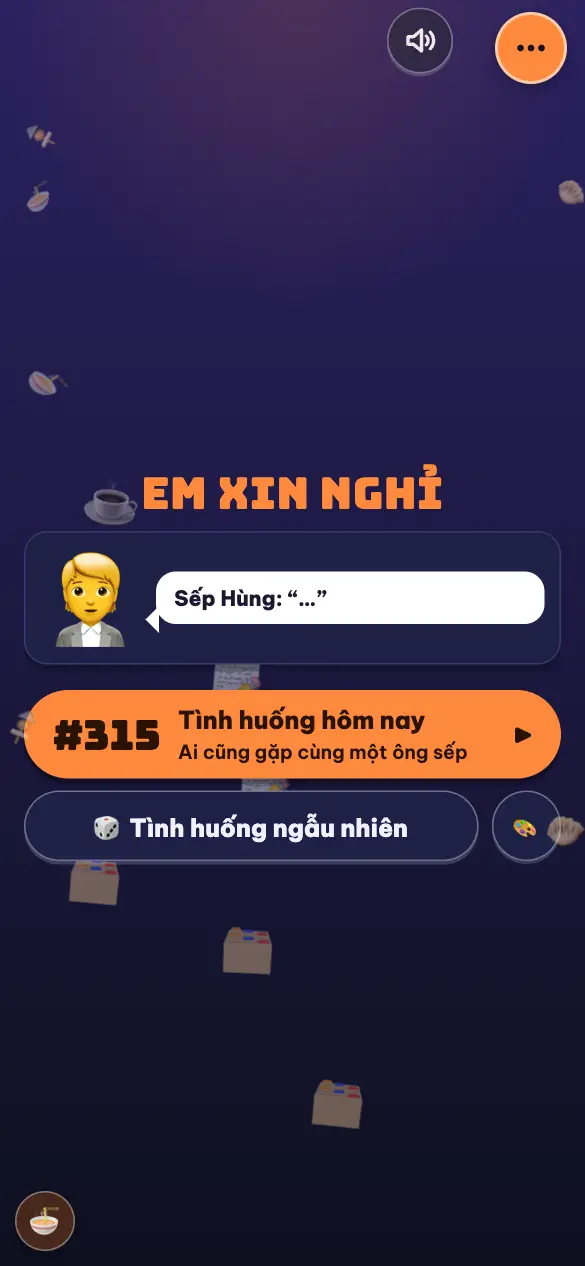
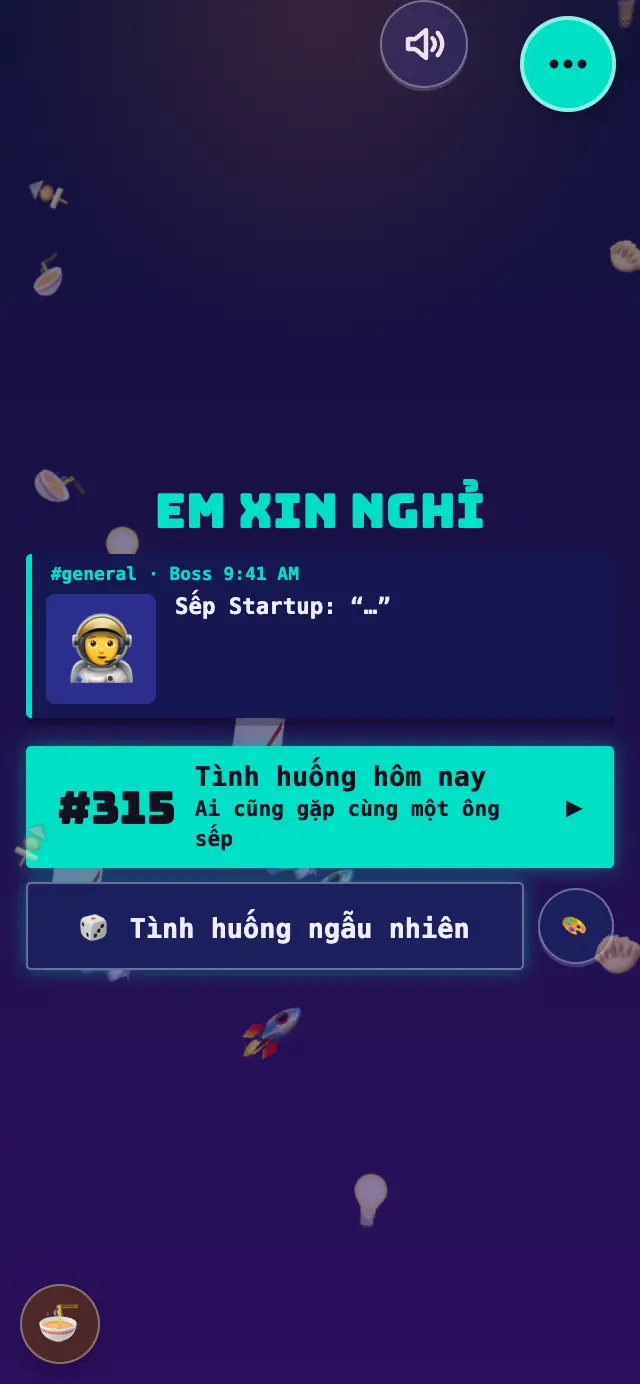
Landing: ảnh hero skin Night Pass thật, một máy cho điện thoại, menu ☰ từ 340px (EN/theme vào menu ở 320px); bài đo bản đầy đủ đạt

diff --git a/scripts/cozygame/check-landing.js b/scripts/cozygame/check-landing.js
@@ -139,7 +139,7 @@ const SIZES = quick ? [[360, 640], [390, 844], [1440, 900]] : [[320, 568], [360,
       await pg.evaluateOnNewDocument(() => { Object.defineProperty(window, "localStorage", { get() { throw new Error("blocked"); } }); });
       await pg.goto(B + PAGES.vi, { waitUntil: "load" }); note((await pg.$eval("#heroCta", e => e.textContent.trim())) === "Chơi ngay" && !errs.length, "chơi-tiếp storage chặn", "phải giữ 'Chơi ngay', không lỗi: " + errs[0]); await pg.close(); }
     /* bố cục: thẻ lối vào bằng nhau + không xuống dòng, thẻ giá đều + không cắt chữ, không phần tử nào cuộn ngang/bị cắt, hero liền mạch dưới thanh trên */
-    for (const l of ["vi", "en"]) for (const th of ["light", "dark"]) for (const sz of [[320, 568], [360, 640], [390, 844], [430, 932], [768, 1024], [1024, 768], [1440, 900]]) {
+    for (const l of ["vi", "en"]) for (const th of ["light", "dark"]) for (const sz of [[320, 568], [360, 640], [390, 844], [430, 932], [768, 1024], [900, 700], [960, 700], [1024, 768], [1440, 900]]) {
       const pg = await br.newPage(); await pg.setViewport({ width: sz[0], height: sz[1] });
       await pg.evaluateOnNewDocument(t => { try { localStorage.setItem("theme", t); } catch (e) {} }, th);
       await pg.goto(B + PAGES[l], { waitUntil: "load" }); await wait(250);
@@ -185,7 +185,7 @@ const SIZES = quick ? [[360, 640], [390, 844], [1440, 900]] : [[320, 568], [360,
       const pg = await br.newPage(); await pg.setViewport({ width: sz[0], height: sz[1] }); const errs = []; pg.on("pageerror", e => errs.push(String(e)));
       await pg.evaluateOnNewDocument(t => { try { localStorage.clear(); localStorage.setItem("theme", t); } catch (e) {} }, th);
       await pg.goto(B + PAGES[l], { waitUntil: "load" }); await wait(250);
-      const tag = "chân-trang " + l + " " + sz.join("x") + " " + th, narrow = sz[0] < 900;
+      const tag = "chân-trang " + l + " " + sz.join("x") + " " + th, narrow = sz[0] < 1000;
       await pg.evaluate(() => document.querySelector("footer.foot").scrollIntoView({ behavior: "instant", block: "end" })); await wait(150);
       const r = await pg.evaluate(() => { const f = document.querySelector("footer.foot"), b = f.querySelector(".mbtn"), nv = document.getElementById("flinks"), bb = b && b.getBoundingClientRect();
         const links = [...nv.querySelectorAll("a")].map(a => a.getAttribute("href")), ah = [...nv.querySelectorAll("a")].filter(a => a.offsetParent).map(a => a.getBoundingClientRect().height);
@@ -202,9 +202,9 @@ const SIZES = quick ? [[360, 640], [390, 844], [1440, 900]] : [[320, 568], [360,
         await pg.keyboard.press("Escape"); await wait(100); note(await pg.evaluate(() => document.getElementById("flinks").offsetParent === null), tag, "Esc không đóng menu");
         await pg.focus("footer .mbtn"); await pg.keyboard.press("Enter"); await wait(100); note(await pg.evaluate(() => document.getElementById("flinks").offsetParent !== null), tag, "Enter không mở menu");
         await pg.mouse.click(5, 5); await wait(100); note(await pg.evaluate(() => document.getElementById("flinks").offsetParent === null), tag, "bấm ngoài không đóng menu");
-        if (sz[0] >= 400) { await pg.evaluate(() => scrollTo({ top: 0, behavior: "instant" })); await wait(100); const hb = await pg.$(".top .mbtn"); const bx = hb && await hb.boundingBox();
-          note(!!bx && bx.width >= 44 && bx.height >= 44, tag, "thiếu nút menu header >= 44px"); if (hb) { await hb.click(); await wait(150); const h = await pg.evaluate(() => { const n = document.getElementById("hlinks"), q = n.getBoundingClientRect(), c = document.querySelector(".top .btn").getBoundingClientRect(); return { vis: n.offsetParent !== null, in: q.right <= innerWidth && q.left >= 0, cta: c.width >= 80 && c.height >= 44, n: n.querySelectorAll("a").length }; });
-            note(h.vis && h.in && h.cta && h.n === 5, tag, "menu header sai " + JSON.stringify(h)); await pg.keyboard.press("Escape"); } }
+        if (sz[0] >= 320) { await pg.evaluate(() => scrollTo({ top: 0, behavior: "instant" })); await wait(100); const hb = await pg.$(".top .mbtn"); const bx = hb && await hb.boundingBox();
+          note(!!bx && bx.width >= 44 && bx.height >= 44, tag, "thiếu nút menu header >= 44px"); if (hb) { await hb.click(); await wait(150); const h = await pg.evaluate(SZ0 => { const n = document.getElementById("hlinks"), q = n.getBoundingClientRect(), c = document.querySelector(".top .btn").getBoundingClientRect(); return { vis: n.offsetParent !== null, in: q.right <= innerWidth && q.left >= 0, cta: c.width >= 80 && c.height >= 44, n: n.querySelectorAll("a:not(.xtra)").length, x: SZ0 < 340 ? [...n.querySelectorAll(".xtra")].every(e => e.getBoundingClientRect().height >= 44) && !document.querySelector(".top .tools>.lang").offsetParent : true }; }, sz[0]);
+            note(h.vis && h.in && h.cta && h.x && h.n === 5, tag, "menu header sai " + JSON.stringify(h)); await pg.keyboard.press("Escape"); } }
       } else if (sz[0] >= 1000) note(await pg.evaluate(() => document.getElementById("hlinks").offsetParent !== null), tag, "liên kết neo header phải hiện");
       note(!errs.length, tag, "lỗi: " + errs[0]); await pg.close(); }
     /* mục phụ huynh + ảnh chụp thật: có id trong menu neo, ảnh tải được có width/height + alt, CTA/chính sách đúng, không CLS */
@@ -275,7 +275,7 @@ const SIZES = quick ? [[360, 640], [390, 844], [1440, 900]] : [[320, 568], [360,
       /* hero một màn hình ở 360x640 */
       if (w === 360 && h === 640) {
         const hh = await pg.evaluate(() => { const g = s => document.querySelector(s).getBoundingClientRect(); const hero = g(".hero"); return { top: hero.top, bottom: hero.bottom, cta: g("#heroCta").bottom, badges: g(".badges").bottom, g2: g(".cta .night").bottom, ih: innerHeight }; });
-        note(hh.bottom <= hh.ih + 1, tag, "hero cao quá một màn hình (bottom " + Math.round(hh.bottom) + " > " + hh.ih + ")");
+        note(Math.max(hh.cta, hh.g2) <= hh.ih && hh.badges <= hh.ih, tag, "CTA/thẻ lối vào/huy hiệu ra ngoài màn đầu (" + Math.round(hh.cta) + "/" + Math.round(hh.g2) + "/" + Math.round(hh.badges) + " > " + hh.ih + "); điện thoại minh hoạ được phép ló xuống dưới");
         note(hh.cta <= hh.ih && hh.g2 <= hh.ih && hh.badges <= hh.ih, tag, "CTA/huy hiệu nằm ngoài màn hình đầu");
       }
       if (shotDir && ((w === 390 && h === 844) || (w === 1440 && h === 900))) { fs.mkdirSync(shotDir, { recursive: true }); await pg.screenshot({ path: path.join(shotDir, `landing-${l}-${w}-${th}-top.png`) }); await pg.screenshot({ path: path.join(shotDir, `landing-${l}-${w}-${th}-full.png`), fullPage: true }); }

diff --git a/landing/index.html b/landing/index.html
@@ -42,7 +42,7 @@ try{if(!/[?&]landing=1(&|$)/.test(location.search)&&(matchMedia("(display-mode: 
 <header class="top">
  <div class="wrap bar">
   <a class="brand" href="/" aria-label="Play Hub"><img src="/lp/img/logo.svg" width="34" height="34" alt=""><span>Play Hub</span></a>
-  <nav class="links" id="hlinks" aria-label="Chính"><a href="#game">Game</a><a href="#tinhnang">Tính năng</a><a href="#phuhuynh">Phụ huynh</a><a href="#nightpass">Night Pass</a><a href="#hoi">Câu hỏi</a></nav>
+  <nav class="links" id="hlinks" aria-label="Chính"><a href="#game">Game</a><a href="#tinhnang">Tính năng</a><a href="#phuhuynh">Phụ huynh</a><a href="#nightpass">Night Pass</a><a href="#hoi">Câu hỏi</a><a class="xtra" href="/en/" hreflang="en" lang="en" data-set-lang="en">English</a><button class="xtra" type="button" data-theme-toggle>Giao diện sáng/tối</button></nav>
   <div class="tools">
    <a class="lang" href="/en/" hreflang="en" lang="en" data-set-lang="en" aria-label="English">EN</a>
    <button class="ico" id="themeBtn" type="button" aria-label="Đổi giao diện sáng/tối"><svg viewBox="0 0 24 24" fill="none" stroke="currentColor" stroke-width="2.2" stroke-linecap="round" stroke-linejoin="round" aria-hidden="true"><path d="M20 14.5A8 8 0 1 1 9.5 4a6.5 6.5 0 0 0 10.5 10.5z"/></svg></button>
@@ -61,7 +61,7 @@ try{if(!/[?&]landing=1(&|$)/.test(location.search)&&(matchMedia("(display-mode: 
   </div>
   <ul class="badges"><li><svg viewBox="0 0 24 24" width="18" height="18" fill="none" stroke="currentColor" stroke-width="3" stroke-linecap="round" stroke-linejoin="round" aria-hidden="true"><path d="M5 12.5l4.5 4.5L19 7.5"/></svg>Không quảng cáo</li><li><svg viewBox="0 0 24 24" width="18" height="18" fill="none" stroke="currentColor" stroke-width="3" stroke-linecap="round" stroke-linejoin="round" aria-hidden="true"><path d="M5 12.5l4.5 4.5L19 7.5"/></svg>Không theo dõi cá nhân</li><li><svg viewBox="0 0 24 24" width="18" height="18" fill="none" stroke="currentColor" stroke-width="3" stroke-linecap="round" stroke-linejoin="round" aria-hidden="true"><path d="M5 12.5l4.5 4.5L19 7.5"/></svg>Chạy offline</li><li><svg viewBox="0 0 24 24" width="18" height="18" fill="none" stroke="currentColor" stroke-width="3" stroke-linecap="round" stroke-linejoin="round" aria-hidden="true"><path d="M5 12.5l4.5 4.5L19 7.5"/></svg>Miễn phí để chơi</li><li><svg viewBox="0 0 24 24" width="18" height="18" fill="none" stroke="currentColor" stroke-width="3" stroke-linecap="round" stroke-linejoin="round" aria-hidden="true"><path d="M5 12.5l4.5 4.5L19 7.5"/></svg>Khoá trẻ em &amp; hẹn giờ</li></ul>
   <div class="mosaic" aria-hidden="true"><span aria-hidden="true">🐦</span><span aria-hidden="true">🐊</span><span aria-hidden="true">🔤</span><span aria-hidden="true">💃</span><span aria-hidden="true">⏰</span><span aria-hidden="true">💸</span><span aria-hidden="true">🛒</span><span aria-hidden="true">🐝</span></div>
-  <div class="phones"><div class="pfx"><div class="dev l"><div class="scr"><span class="isl"></span><div class="sb"><b>9:41</b><i class="sg"></i><i class="bt"></i></div><img src="/lp/img/shots/hero-nghi.webp" width="585" height="1266" alt="Màn Em Xin Nghỉ trong Night Play" loading="lazy" decoding="async"></div></div><div class="dev c"><div class="scr"><span class="isl"></span><div class="sb"><b>9:41</b><i class="sg"></i><i class="bt"></i></div><img src="/lp/img/shots/hero-cafe.webp" width="585" height="1266" alt="Màn Xe Cà Phê Của Tôi trong Night Play" fetchpriority="high" decoding="async"></div></div><div class="dev r"><div class="scr"><span class="isl"></span><div class="sb"><b>9:41</b><i class="sg"></i><i class="bt"></i></div><img src="/lp/img/shots/hero-wings.webp" width="585" height="1266" alt="Màn Cánh Nhỏ Phiêu Lưu trong Night Play" loading="lazy" decoding="async"></div></div></div><span class="fchip c1">👑 Night Pass</span><span class="fchip c2">Không quảng cáo</span><span class="fchip c3">Chạy offline</span></div>
+  <div class="phones"><div class="pfx"><div class="dev l"><div class="scr"><span class="isl"></span><div class="sb"><b>9:41</b><i class="sg"></i><i class="bt"></i></div><img src="/lp/img/shots/hero-nghi.webp" width="585" height="1266" alt="Sếp Ơi Em Xin Nghỉ với skin Night Pass startup" loading="lazy" decoding="async"></div></div><div class="dev c"><div class="scr"><span class="isl"></span><div class="sb"><b>9:41</b><i class="sg"></i><i class="bt"></i></div><img src="/lp/img/shots/hero-cafe.webp" width="585" height="1266" alt="Gà Mẹ Bắn Trứng với skin Night Pass neon tím" fetchpriority="high" decoding="async"></div></div><div class="dev r"><div class="scr"><span class="isl"></span><div class="sb"><b>9:41</b><i class="sg"></i><i class="bt"></i></div><img src="/lp/img/shots/hero-wings.webp" width="585" height="1266" alt="Mất Tình Không với skin Night Pass bầu trời đêm" loading="lazy" decoding="async"></div></div></div><span class="fchip c1">👑 Night Pass</span><span class="fchip c2">Không quảng cáo</span><span class="fchip c3">Chạy offline</span></div>
  </div>
 </section>
 

diff --git a/landing/en/index.html b/landing/en/index.html
@@ -42,7 +42,7 @@ try{if(!/[?&]landing=1(&|$)/.test(location.search)&&(matchMedia("(display-mode: 
 <header class="top">
  <div class="wrap bar">
   <a class="brand" href="/en/" aria-label="Play Hub"><img src="/lp/img/logo.svg" width="34" height="34" alt=""><span>Play Hub</span></a>
-  <nav class="links" id="hlinks" aria-label="Main"><a href="#game">Games</a><a href="#tinhnang">Features</a><a href="#phuhuynh">Parents</a><a href="#nightpass">Night Pass</a><a href="#hoi">FAQ</a></nav>
+  <nav class="links" id="hlinks" aria-label="Main"><a href="#game">Games</a><a href="#tinhnang">Features</a><a href="#phuhuynh">Parents</a><a href="#nightpass">Night Pass</a><a href="#hoi">FAQ</a><a class="xtra" href="/" hreflang="vi" lang="vi" data-set-lang="vi">Tiếng Việt</a><button class="xtra" type="button" data-theme-toggle>Light / Dark</button></nav>
   <div class="tools">
    <a class="lang" href="/" hreflang="vi" lang="vi" data-set-lang="vi" aria-label="Tiếng Việt">VI</a>
    <button class="ico" id="themeBtn" type="button" aria-label="Toggle light/dark theme"><svg viewBox="0 0 24 24" fill="none" stroke="currentColor" stroke-width="2.2" stroke-linecap="round" stroke-linejoin="round" aria-hidden="true"><path d="M20 14.5A8 8 0 1 1 9.5 4a6.5 6.5 0 0 0 10.5 10.5z"/></svg></button>
@@ -61,7 +61,7 @@ try{if(!/[?&]landing=1(&|$)/.test(location.search)&&(matchMedia("(display-mode: 
   </div>
   <ul class="badges"><li><svg viewBox="0 0 24 24" width="18" height="18" fill="none" stroke="currentColor" stroke-width="3" stroke-linecap="round" stroke-linejoin="round" aria-hidden="true"><path d="M5 12.5l4.5 4.5L19 7.5"/></svg>No ads</li><li><svg viewBox="0 0 24 24" width="18" height="18" fill="none" stroke="currentColor" stroke-width="3" stroke-linecap="round" stroke-linejoin="round" aria-hidden="true"><path d="M5 12.5l4.5 4.5L19 7.5"/></svg>No personal tracking</li><li><svg viewBox="0 0 24 24" width="18" height="18" fill="none" stroke="currentColor" stroke-width="3" stroke-linecap="round" stroke-linejoin="round" aria-hidden="true"><path d="M5 12.5l4.5 4.5L19 7.5"/></svg>Works offline</li><li><svg viewBox="0 0 24 24" width="18" height="18" fill="none" stroke="currentColor" stroke-width="3" stroke-linecap="round" stroke-linejoin="round" aria-hidden="true"><path d="M5 12.5l4.5 4.5L19 7.5"/></svg>Free to play</li><li><svg viewBox="0 0 24 24" width="18" height="18" fill="none" stroke="currentColor" stroke-width="3" stroke-linecap="round" stroke-linejoin="round" aria-hidden="true"><path d="M5 12.5l4.5 4.5L19 7.5"/></svg>Child lock &amp; time limit</li></ul>
   <div class="mosaic" aria-hidden="true"><span aria-hidden="true">🐦</span><span aria-hidden="true">🐊</span><span aria-hidden="true">🔤</span><span aria-hidden="true">💃</span><span aria-hidden="true">⏰</span><span aria-hidden="true">💸</span><span aria-hidden="true">🛒</span><span aria-hidden="true">🐝</span></div>
-  <div class="phones"><div class="pfx"><div class="dev l"><div class="scr"><span class="isl"></span><div class="sb"><b>9:41</b><i class="sg"></i><i class="bt"></i></div><img src="/lp/img/shots/hero-nghi.webp" width="585" height="1266" alt="The Boss, I Need a Day Off screen in Night Play" loading="lazy" decoding="async"></div></div><div class="dev c"><div class="scr"><span class="isl"></span><div class="sb"><b>9:41</b><i class="sg"></i><i class="bt"></i></div><img src="/lp/img/shots/hero-cafe.webp" width="585" height="1266" alt="The My Coffee Cart screen in Night Play" fetchpriority="high" decoding="async"></div></div><div class="dev r"><div class="scr"><span class="isl"></span><div class="sb"><b>9:41</b><i class="sg"></i><i class="bt"></i></div><img src="/lp/img/shots/hero-wings.webp" width="585" height="1266" alt="The Little Wings screen in Night Play" loading="lazy" decoding="async"></div></div></div><span class="fchip c1">👑 Night Pass</span><span class="fchip c2">No ads</span><span class="fchip c3">Works offline</span></div>
+  <div class="phones"><div class="pfx"><div class="dev l"><div class="scr"><span class="isl"></span><div class="sb"><b>9:41</b><i class="sg"></i><i class="bt"></i></div><img src="/lp/img/shots/hero-nghi.webp" width="585" height="1266" alt="Boss, I Need a Day Off with the startup Night Pass skin" loading="lazy" decoding="async"></div></div><div class="dev c"><div class="scr"><span class="isl"></span><div class="sb"><b>9:41</b><i class="sg"></i><i class="bt"></i></div><img src="/lp/img/shots/hero-cafe.webp" width="585" height="1266" alt="Mama Hen's Egg Pop with the purple neon Night Pass skin" fetchpriority="high" decoding="async"></div></div><div class="dev r"><div class="scr"><span class="isl"></span><div class="sb"><b>9:41</b><i class="sg"></i><i class="bt"></i></div><img src="/lp/img/shots/hero-wings.webp" width="585" height="1266" alt="Love Lost with the night-sky Night Pass skin" loading="lazy" decoding="async"></div></div></div><span class="fchip c1">👑 Night Pass</span><span class="fchip c2">No ads</span><span class="fchip c3">Works offline</span></div>
  </div>
 </section>
 

diff --git a/scripts/cozygame/shots-landing.js b/scripts/cozygame/shots-landing.js
@@ -1,13 +1,14 @@
 /* Chụp ảnh màn hình THẬT cho landing (mockup điện thoại ở hero + mục phụ huynh) -> landing/lp/img/shots/*.webp (mỗi ảnh <= 45KB).
    Chạy lại: NODE_PATH=<thư mục puppeteer-core> node scripts/cozygame/shots-landing.js */
-const { spawn } = require("child_process"), fs = require("fs"), path = require("path"), puppeteer = require("puppeteer-core");
+const { spawn, execSync } = require("child_process"), fs = require("fs"), path = require("path"), puppeteer = require("puppeteer-core");
 const root = path.join(__dirname, "..", ".."), out = path.join(root, "landing", "lp", "img", "shots"), wait = ms => new Promise(r => setTimeout(r, ms));
 const MAX = 45 * 1024;
 const today = () => new Date().toLocaleDateString("sv");
 const SHOTS = [
-  { f: "hero-cafe", url: "cozyplay/games/xe-ca-phe/index.html" },
-  { f: "hero-nghi", url: "cozyplay/games/xin-nghi/index.html" },
-  { f: "hero-wings", url: "cozyplay/games/cozy-wings/index.html" },
+  /* 3 máy hero: skin Night Pass THẬT (áp bằng PF.skinSel như check-skins.js), tím-đêm-vàng, viewport 320x692 để chữ to hơn khi thu nhỏ */
+  { f: "hero-cafe", url: "cozyplay/games/ga-me-ban-trung/index.html", skin: ["ga-me-ban-trung", "neon"], vp: [320, 692, 2] },
+  { f: "hero-nghi", url: "cozyplay/games/xin-nghi/index.html", skin: ["xin-nghi", "startup"], vp: [320, 692, 2] },
+  { f: "hero-wings", url: "cozyplay/games/mat-tinh-khong/index.html", skin: ["mat-tinh-khong", "sky"], vp: [320, 692, 2] },
   { f: "parent-settings", url: "popplay/index.html", ls: { prefs: JSON.stringify({ limit: 30, off: ["be-noi-dung-khong"] }), usage: JSON.stringify({ d: today(), s: 600 }) }, js: "renderPrefs();document.getElementById('gate').classList.add('on')" },
   { f: "parent-timeup", url: "popplay/index.html", ls: { prefs: JSON.stringify({ limit: 15, off: [] }), usage: JSON.stringify({ d: today(), s: 900 }) } },
 ];
@@ -17,9 +18,13 @@ const SHOTS = [
   const srv = spawn("python3", ["-m", "http.server", String(PORT), "--bind", "127.0.0.1"], { cwd: root, stdio: "ignore" }); await wait(1200);
   const br = await puppeteer.launch({ executablePath: "/Applications/Google Chrome.app/Contents/MacOS/Google Chrome", headless: "new", args: ["--mute-audio"] });
   for (const s of SHOTS) {
-    const pg = await br.newPage(); await pg.setViewport({ width: 390, height: 844, deviceScaleFactor: 1.5 });
+    const pg = await br.newPage(); const vp = s.vp || [390, 844, 1.5]; await pg.setViewport({ width: vp[0], height: vp[1], deviceScaleFactor: vp[2], isMobile: true, hasTouch: true });
     await pg.evaluateOnNewDocument(o => { try { localStorage.setItem("theme", "dark"); localStorage.setItem("lang", "vi"); localStorage.setItem("np-welcome-seen", "1"); localStorage.setItem("pophelp-seen:x", "1"); for (const k in o) localStorage.setItem(k, o[k]); } catch (e) {} }, s.ls || {});
     await pg.goto("http://127.0.0.1:" + PORT + "/" + s.url, { waitUntil: "load" }); await wait(1600);
+    if (s.skin) {
+      const src = execSync("node -e \"process.stdout.write(require('./server/pro/" + s.skin[0] + ".js').source({}))\"", { cwd: root }).toString();
+      await pg.evaluate((src, k) => { (0, eval)(src); const A = Array.isArray(PF.skinSel), S = A ? PF.skins : [PF.skins]; S.forEach((m, t) => { if (m && m[k]) { if (A) PF.skinSel[t] = k; else PF.skinSel = k; } }); try { applySkin(); } catch (e) {} try { renderHome(); } catch (e) {} }, src, s.skin[1]); await wait(600);
+    }
     if (s.js) { await pg.evaluate(s.js); await wait(500); }
     let q = 70, buf;
     do { buf = await pg.screenshot({ type: "webp", quality: q }); q -= 6; } while (buf.length > MAX && q > 20);

diff --git a/landing/lp/landing.css b/landing/lp/landing.css
@@ -217,7 +217,7 @@ html[data-theme=dark] .top{background:rgba(18,20,31,.85)}
 /* ===== Menu icon (header + chân trang) ===== */
 .mbtn{display:none;align-items:center;justify-content:center;min-width:44px;min-height:44px;border-radius:50%;border:1px solid var(--line);background:var(--panel);color:var(--ink);cursor:pointer;padding:0}
 .mbtn:hover{border-color:var(--accent)}
-@media (min-width:400px) and (max-width:999px){.top .mbtn{display:inline-flex}}
+@media (min-width:340px) and (max-width:999px){.top .mbtn{display:inline-flex}}
 @media (max-width:999px){
  .links.open{display:grid;position:absolute;top:58px;right:16px;margin:0;gap:2px;padding:8px;min-width:200px;background:var(--panel);border:1px solid var(--line);border-radius:18px;box-shadow:0 14px 40px rgba(0,0,0,.35);z-index:60}
 }
@@ -230,7 +230,7 @@ html[data-theme=dark] .top{background:rgba(18,20,31,.85)}
 .flinks{flex-wrap:wrap;gap:0 4px;justify-content:flex-end}
 .flinks a{padding:0 8px;font-size:14px;font-weight:600;text-decoration:none;border-radius:99px}
 .flinks a:hover{background:var(--card)}
-@media (max-width:899px){
+@media (max-width:999px){
  .foot .mbtn{display:inline-flex}
  .foot.js-menu .flinks{display:none}
  .foot.js-menu .flinks.open{display:grid;position:absolute;right:0;bottom:calc(100% + 8px);gap:2px;padding:8px;min-width:230px;background:var(--panel);border:1px solid var(--line);border-radius:18px;box-shadow:0 14px 40px rgba(0,0,0,.35);z-index:60}
@@ -280,3 +280,19 @@ html[data-theme=dark] .top{background:rgba(18,20,31,.85)}
 .pcta{display:flex;flex-wrap:wrap;gap:12px;align-items:center;margin-top:18px!important}
 html[data-theme=dark] .pcard{background:rgba(27,30,47,.72)}
 @media (min-width:900px){.pgrid{grid-template-columns:1.1fr .9fr}.pshots .dev{width:min(46%,250px)}}
+
+/* mục phụ của menu header: chỉ hiện trong popover ở điện thoại rất hẹp (<340px), nơi EN/theme không còn chỗ ở thanh trên */
+.links .xtra{display:none}
+@media (max-width:339px){
+ .top .tools>.lang,.top #themeBtn{display:none}
+ .links.open .xtra{display:flex;align-items:center;min-height:44px;padding:0 12px;border:0;background:none;color:var(--ink2);font:600 17px system-ui,sans-serif;border-radius:12px;text-align:left;cursor:pointer;text-decoration:none}
+ .top .mbtn{display:inline-flex}
+}
+@media (max-width:360px){.top .mbtn{min-width:44px}}
+/* điện thoại: MỘT máy ló lên dưới huy hiệu (ảnh giữa, không chip), thay dải emoji */
+@media (max-width:899px){
+ .mosaic{display:none}
+ .hero-in>.phones{display:block;justify-self:center;width:min(220px,62vw);margin:10px auto 0}
+ .pfx .dev.l,.pfx .dev.r,.fchip{display:none}
+ .pfx .c{position:relative;width:100%}
+}

diff --git a/landing/lp/landing.js b/landing/lp/landing.js
@@ -3,11 +3,12 @@
   var d = document, root = d.documentElement, lang = d.body.getAttribute("data-lang");
   var $ = function (id) { return d.getElementById(id); };
   /* theme: cùng khoá "theme" với phần còn lại của site */
-  var tb = $("themeBtn");
-  if (tb) tb.addEventListener("click", function () {
-    var t = root.dataset.theme === "dark" ? "light" : "dark";
-    root.dataset.theme = t;
-    try { localStorage.setItem("theme", t); } catch (e) {}
+  Array.prototype.forEach.call(d.querySelectorAll("#themeBtn,[data-theme-toggle]"), function (tb) {
+    tb.addEventListener("click", function () {
+      var t = root.dataset.theme === "dark" ? "light" : "dark";
+      root.dataset.theme = t;
+      try { localStorage.setItem("theme", t); } catch (e) {}
+    });
   });
   /* các khối cùng thứ tự ở hai bản VI/EN: main > section, rồi chân trang */
   function blocks() { return Array.prototype.slice.call(d.querySelectorAll("main > section")).concat(Array.prototype.slice.call(d.querySelectorAll("footer.foot"))); }

diff --git a/docs/LANDING-PAGE-BRIEF.md b/docs/LANDING-PAGE-BRIEF.md
@@ -272,3 +272,9 @@ theo ĐÚNG tài liệu docs/LANDING-PAGE-BRIEF.md (đính kèm toàn văn). Yê
 - Ảnh chụp màn hình THẬT (390x844, DSF 1.5, WebP <= 45KB/ảnh) trong `landing/lp/img/shots/`: `hero-cafe|nghi|wings.webp` (3 máy ở hero, >= 900px; ảnh giữa `fetchpriority=high`, hai ảnh bên lazy) và `parent-settings|timeup.webp` (mục phụ huynh). Tạo lại bằng `node scripts/cozygame/shots-landing.js`. Khung máy (viền titan, dynamic island, thanh trạng thái, nút bên, phản chiếu kính) dựng bằng CSS (`.dev`); chip nổi `.fchip` trôi nhẹ, tắt khi `prefers-reduced-motion`.
 - LỆCH brief: ảnh hero là màn chọn của game (skin mặc định, tối), chưa chụp skin Night Pass riêng; dưới 900px ẩn các máy để CTA + thẻ lối vào luôn nằm trong màn đầu (không có bản "1 máy" cho điện thoại).
 - Mục `#phuhuynh` (ngay sau "Chọn thế giới", có trong menu neo, VI + EN): chỉ nêu tính năng có thật trong `popplay/index.html` + `shared/kidlock.js` + `shared/parentgate.js` (hẹn giờ 15-120 phút/ngày, khoá màn hình chơi, bật/tắt game, cổng giữ nút 3 giây + câu hỏi người lớn). Các tính năng này MIỄN PHÍ (không bị khoá bởi Night Pass). Có thêm huy hiệu ở hero, thẻ tính năng, câu FAQ + JSON-LD (10 câu).
+
+## Vòng hoàn thiện (skin Night Pass thật, điện thoại, menu hẹp)
+- Ảnh hero chụp bằng SKIN NIGHT PASS THẬT (áp qua `PF.skinSel` như `check-skins.js`, viewport 320x692 DSF 2 để chữ to khi thu nhỏ): Gà Mẹ Bắn Trứng skin neon (giữa), Sếp Ơi Em Xin Nghỉ skin startup (trái), Mất Tình Không skin sky (phải); vương miện 👑 trong ảnh là các chế độ Night Pass. Vẫn là màn chọn của game (màn kết thúc không dựng được ổn định bằng script).
+- Điện thoại (<900px): MỘT máy (ảnh giữa) ló lên dưới huy hiệu, thay dải emoji; CTA + hai thẻ lối vào + huy hiệu vẫn nằm trong màn đầu ở 360x640 (check-landing kiểm tra; điện thoại minh hoạ được phép ló xuống dưới).
+- Thanh trên: nút ☰ (mục neo) hiện từ 340px; dưới 340px (320px) EN/theme chuyển vào trong menu ☰ để "Chơi ngay" không bị ép. Liên kết neo dàn ngang vẫn từ 1000px (đo ở 900-999px thì thanh trên tràn nên không hạ xuống 900px); chân trang gom vào ☰ dưới 1000px.
+- GAME_RULES.md áp cho landing: 0a-8/9 (nút >= 44px, chữ nằm trong thẻ), 0a-12 (lề 16px + icon ở mép; landing dùng `.wrap` 16px, đã đo lề trái/phải của chân trang), "một màn hình không cuộn" KHÔNG áp cho landing (trang giới thiệu dài, cuộn bình thường). GAME_RULES.md không sửa vì đang có thay đổi của agent khác.
